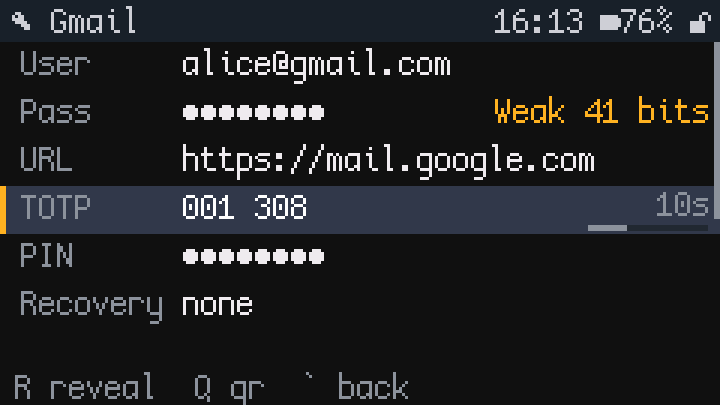
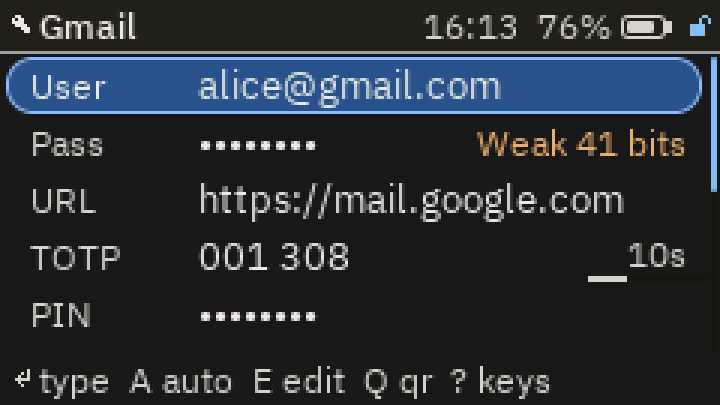
README: use the current UI for the entry screenshot
Claude-Session: https://claude.ai/code/session_01ENd91RXp3W4W33spDocHEX

diff --git a/README.md b/README.md
@@ -19,7 +19,7 @@ Rendered by the host UI test from the real UI code at the Cardputer's 240x135 si
 | | | |
 |---|---|---|
 | ![Splash](docs/screenshots/splash.png) | ![Browser](docs/screenshots/browser.png) | ![Entries](docs/screenshots/home.png) |
-| ![Entry with TOTP](docs/screenshots/entry.png) | ![Generator](docs/screenshots/generator.png) | ![Passkey registration](docs/screenshots/passkey.png) |
+| ![Entry](docs/screenshots/entry.png) | ![Generator](docs/screenshots/generator.png) | ![Passkey registration](docs/screenshots/passkey.png) |
 
 ## Install
 
